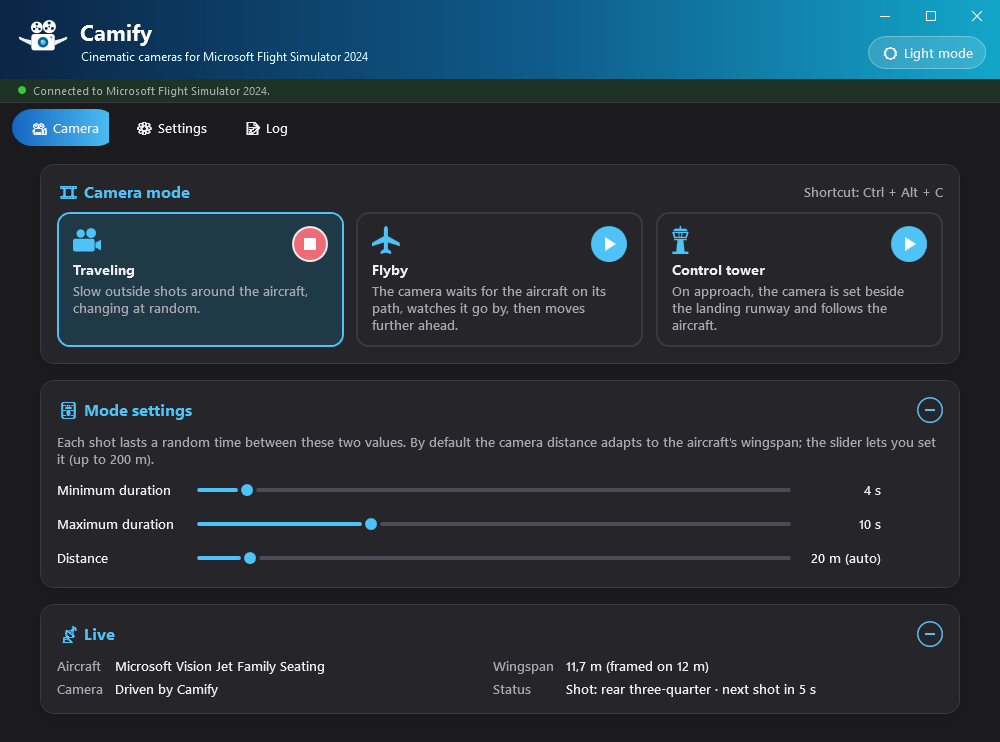
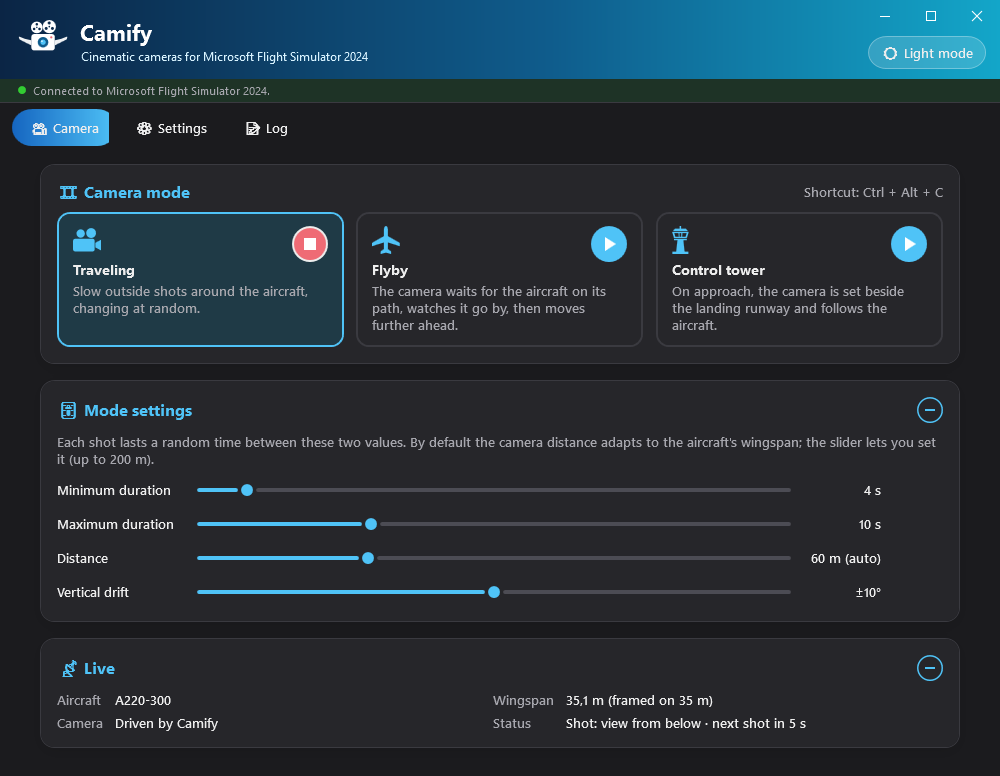
Camify : guides et captures recopiés (dérive verticale du Traveling)

diff --git a/guides/camify/guide-utilisateur.html b/guides/camify/guide-utilisateur.html
@@ -203,8 +203,8 @@
         </figure>
         <div>
           <p>Camify enchaîne des <strong>plans extérieurs</strong> tirés au hasard. Pendant chaque
-          plan, la caméra glisse doucement (léger travelling circulaire, rapprochement ou recul,
-          zoom), avec une accélération et une décélération progressives ; le passage au plan
+          plan, la caméra glisse doucement (léger travelling circulaire, montée ou descente, rapprochement ou
+          recul, zoom), avec une accélération et une décélération progressives ; le passage au plan
           suivant est un cut. Deux plans consécutifs ne sont jamais du même type.</p>
           <table>
             <tr><th>Plan</th><th>Point de vue</th></tr>
@@ -231,6 +231,9 @@
           et le curseur affiche « (auto) ». Déplacez-le pour fixer une valeur (5 à 200 m) ; le
           bouton <span class="btn-label">Auto</span> revient au calcul automatique. Ce choix manuel
           vaut pour la session et revient en automatique quand vous changez d'appareil.</li>
+          <li><strong>Dérive verticale</strong> (0 à 20°, 10° par défaut) : pendant chaque plan, la
+          caméra monte ou descend de cet angle, le sens étant tiré au hasard. À 0°, la hauteur reste
+          fixe pendant le plan ; à 20°, le mouvement vertical est bien visible.</li>
         </ul>
         <div class="callout tip">
           <strong>Jamais sous le sol</strong>

diff --git a/guides/camify/guia-usuario.html b/guides/camify/guia-usuario.html
@@ -203,8 +203,8 @@
         </figure>
         <div>
           <p>Camify encadena <strong>planos exteriores</strong> elegidos al azar. Durante cada
-          plano, la cámara se desliza suavemente (ligero travelling circular, acercamiento o
-          alejamiento, zoom), con una aceleración y una deceleración progresivas; el paso al plano
+          plano, la cámara se desliza suavemente (ligero travelling circular, subida o bajada,
+          acercamiento o alejamiento, zoom), con una aceleración y una deceleración progresivas; el paso al plano
           siguiente es un corte. Dos planos consecutivos nunca son del mismo tipo.</p>
           <table>
             <tr><th>Plano</th><th>Punto de vista</th></tr>
@@ -231,6 +231,9 @@
           C172) y el control muestra «(auto)». Muévalo para fijar un valor (5 a 200 m); el botón
           <span class="btn-label">Auto</span> vuelve al cálculo automático. Esta elección manual
           dura la sesión y vuelve a automático al cambiar de aeronave.</li>
+          <li><strong>Deriva vertical</strong> (0 a 20°, 10° por defecto): durante cada plano, la cámara
+          sube o baja este ángulo, con el sentido elegido al azar. A 0°, la altura se mantiene fija
+          durante el plano; a 20°, el movimiento vertical es bien visible.</li>
         </ul>
         <div class="callout tip">
           <strong>Nunca bajo el suelo</strong>

diff --git a/guides/camify/user-guide.html b/guides/camify/user-guide.html
@@ -199,7 +199,8 @@
         </figure>
         <div>
           <p>Camify chains <strong>outside shots</strong> picked at random. During each shot the
-          camera glides gently (slight circular tracking, moving closer or away, zoom), with
+          camera glides gently (slight circular tracking, rising or sinking, moving closer or
+          away, zoom), with
           progressive acceleration and deceleration; moving to the next shot is a cut. Two
           consecutive shots are never of the same kind.</p>
           <table>
@@ -227,6 +228,9 @@
           C172) and the slider shows “(auto)”. Move it to set a value (5 to 200 m); the
           <span class="btn-label">Auto</span> button goes back to the automatic value. This manual
           choice lasts for the session and returns to automatic when you change aircraft.</li>
+          <li><strong>Vertical drift</strong> (0 to 20°, 10° by default): during each shot the camera
+          rises or sinks by this angle, the direction being picked at random. At 0° the height stays
+          constant during the shot; at 20° the vertical movement is clearly visible.</li>
         </ul>
         <div class="callout tip">
           <strong>Never below the ground</strong>

diff --git a/assets/js/main.js b/assets/js/main.js
@@ -108,7 +108,7 @@
     stats: [1286, 866], config: [1286, 866], atterrissage: [344, 134]
   };
   var CAMIFY_SIZES = {
-    "camera-sombre": [1000, 742], "camera-clair": [1000, 544], flyby: [1000, 666],
+    "camera-sombre": [1000, 776], "camera-clair": [1000, 544], flyby: [1000, 666],
     config: [1000, 723], journal: [1000, 780]
   };
 
